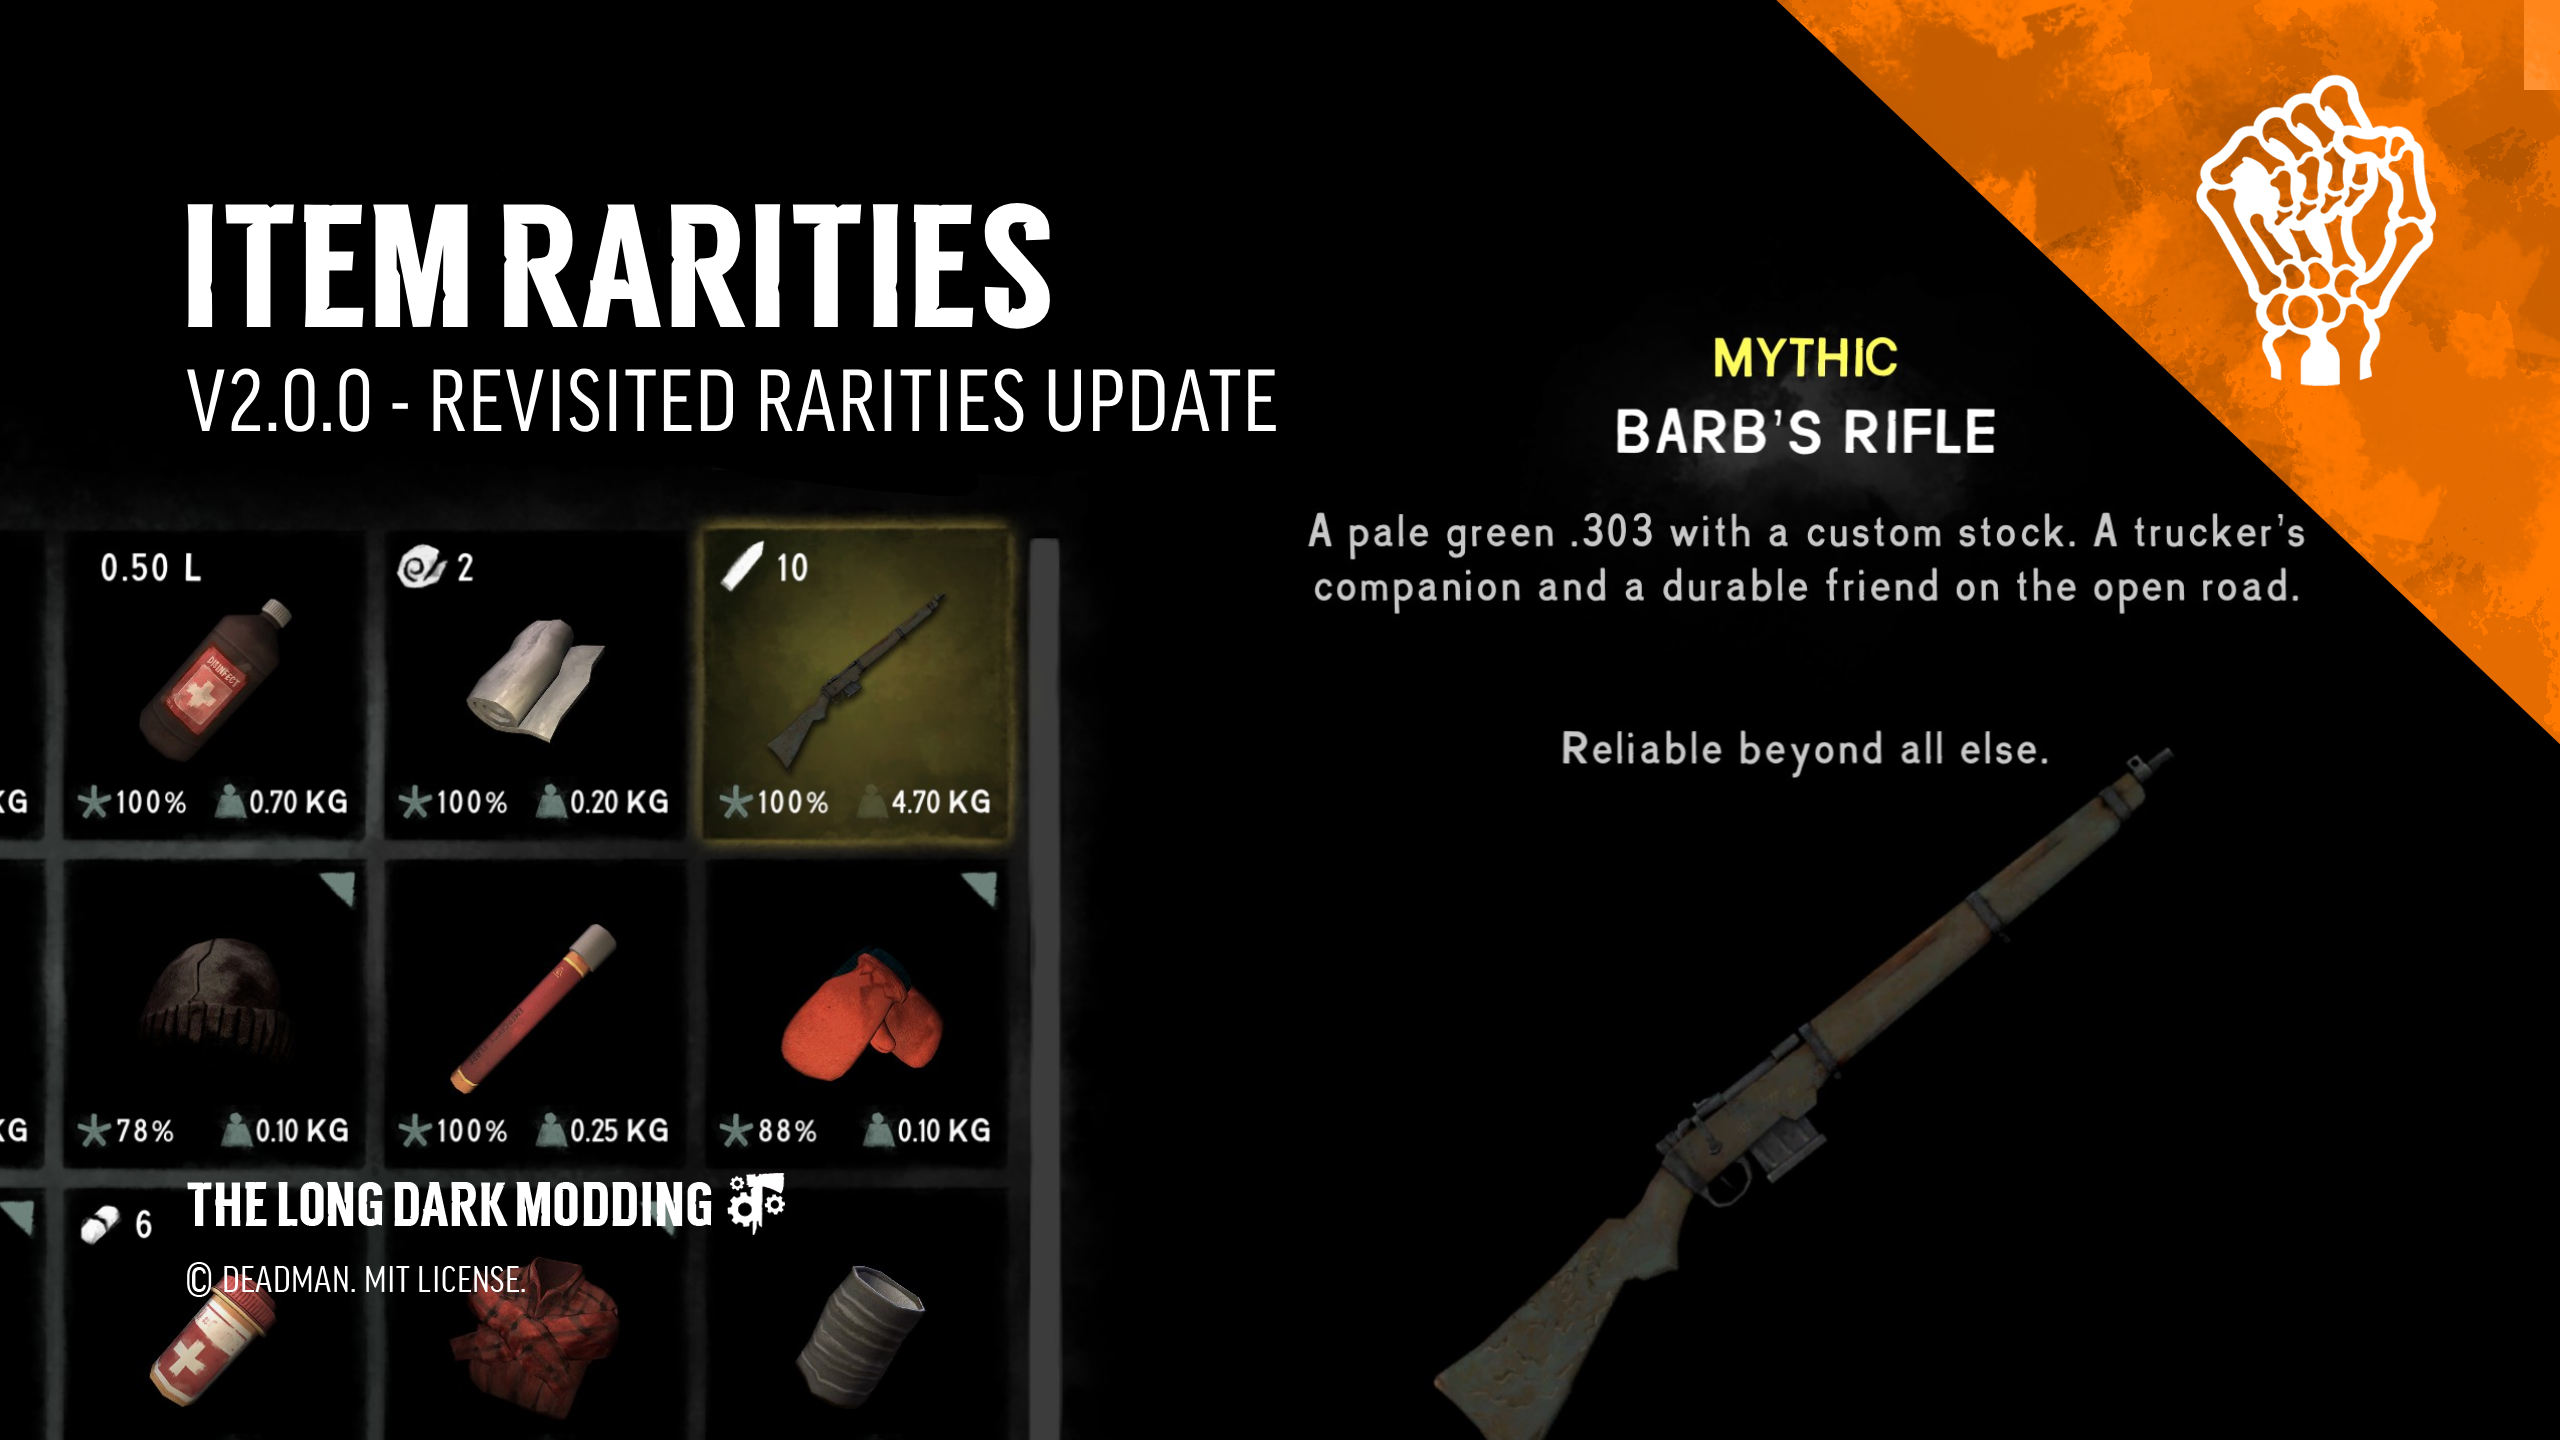
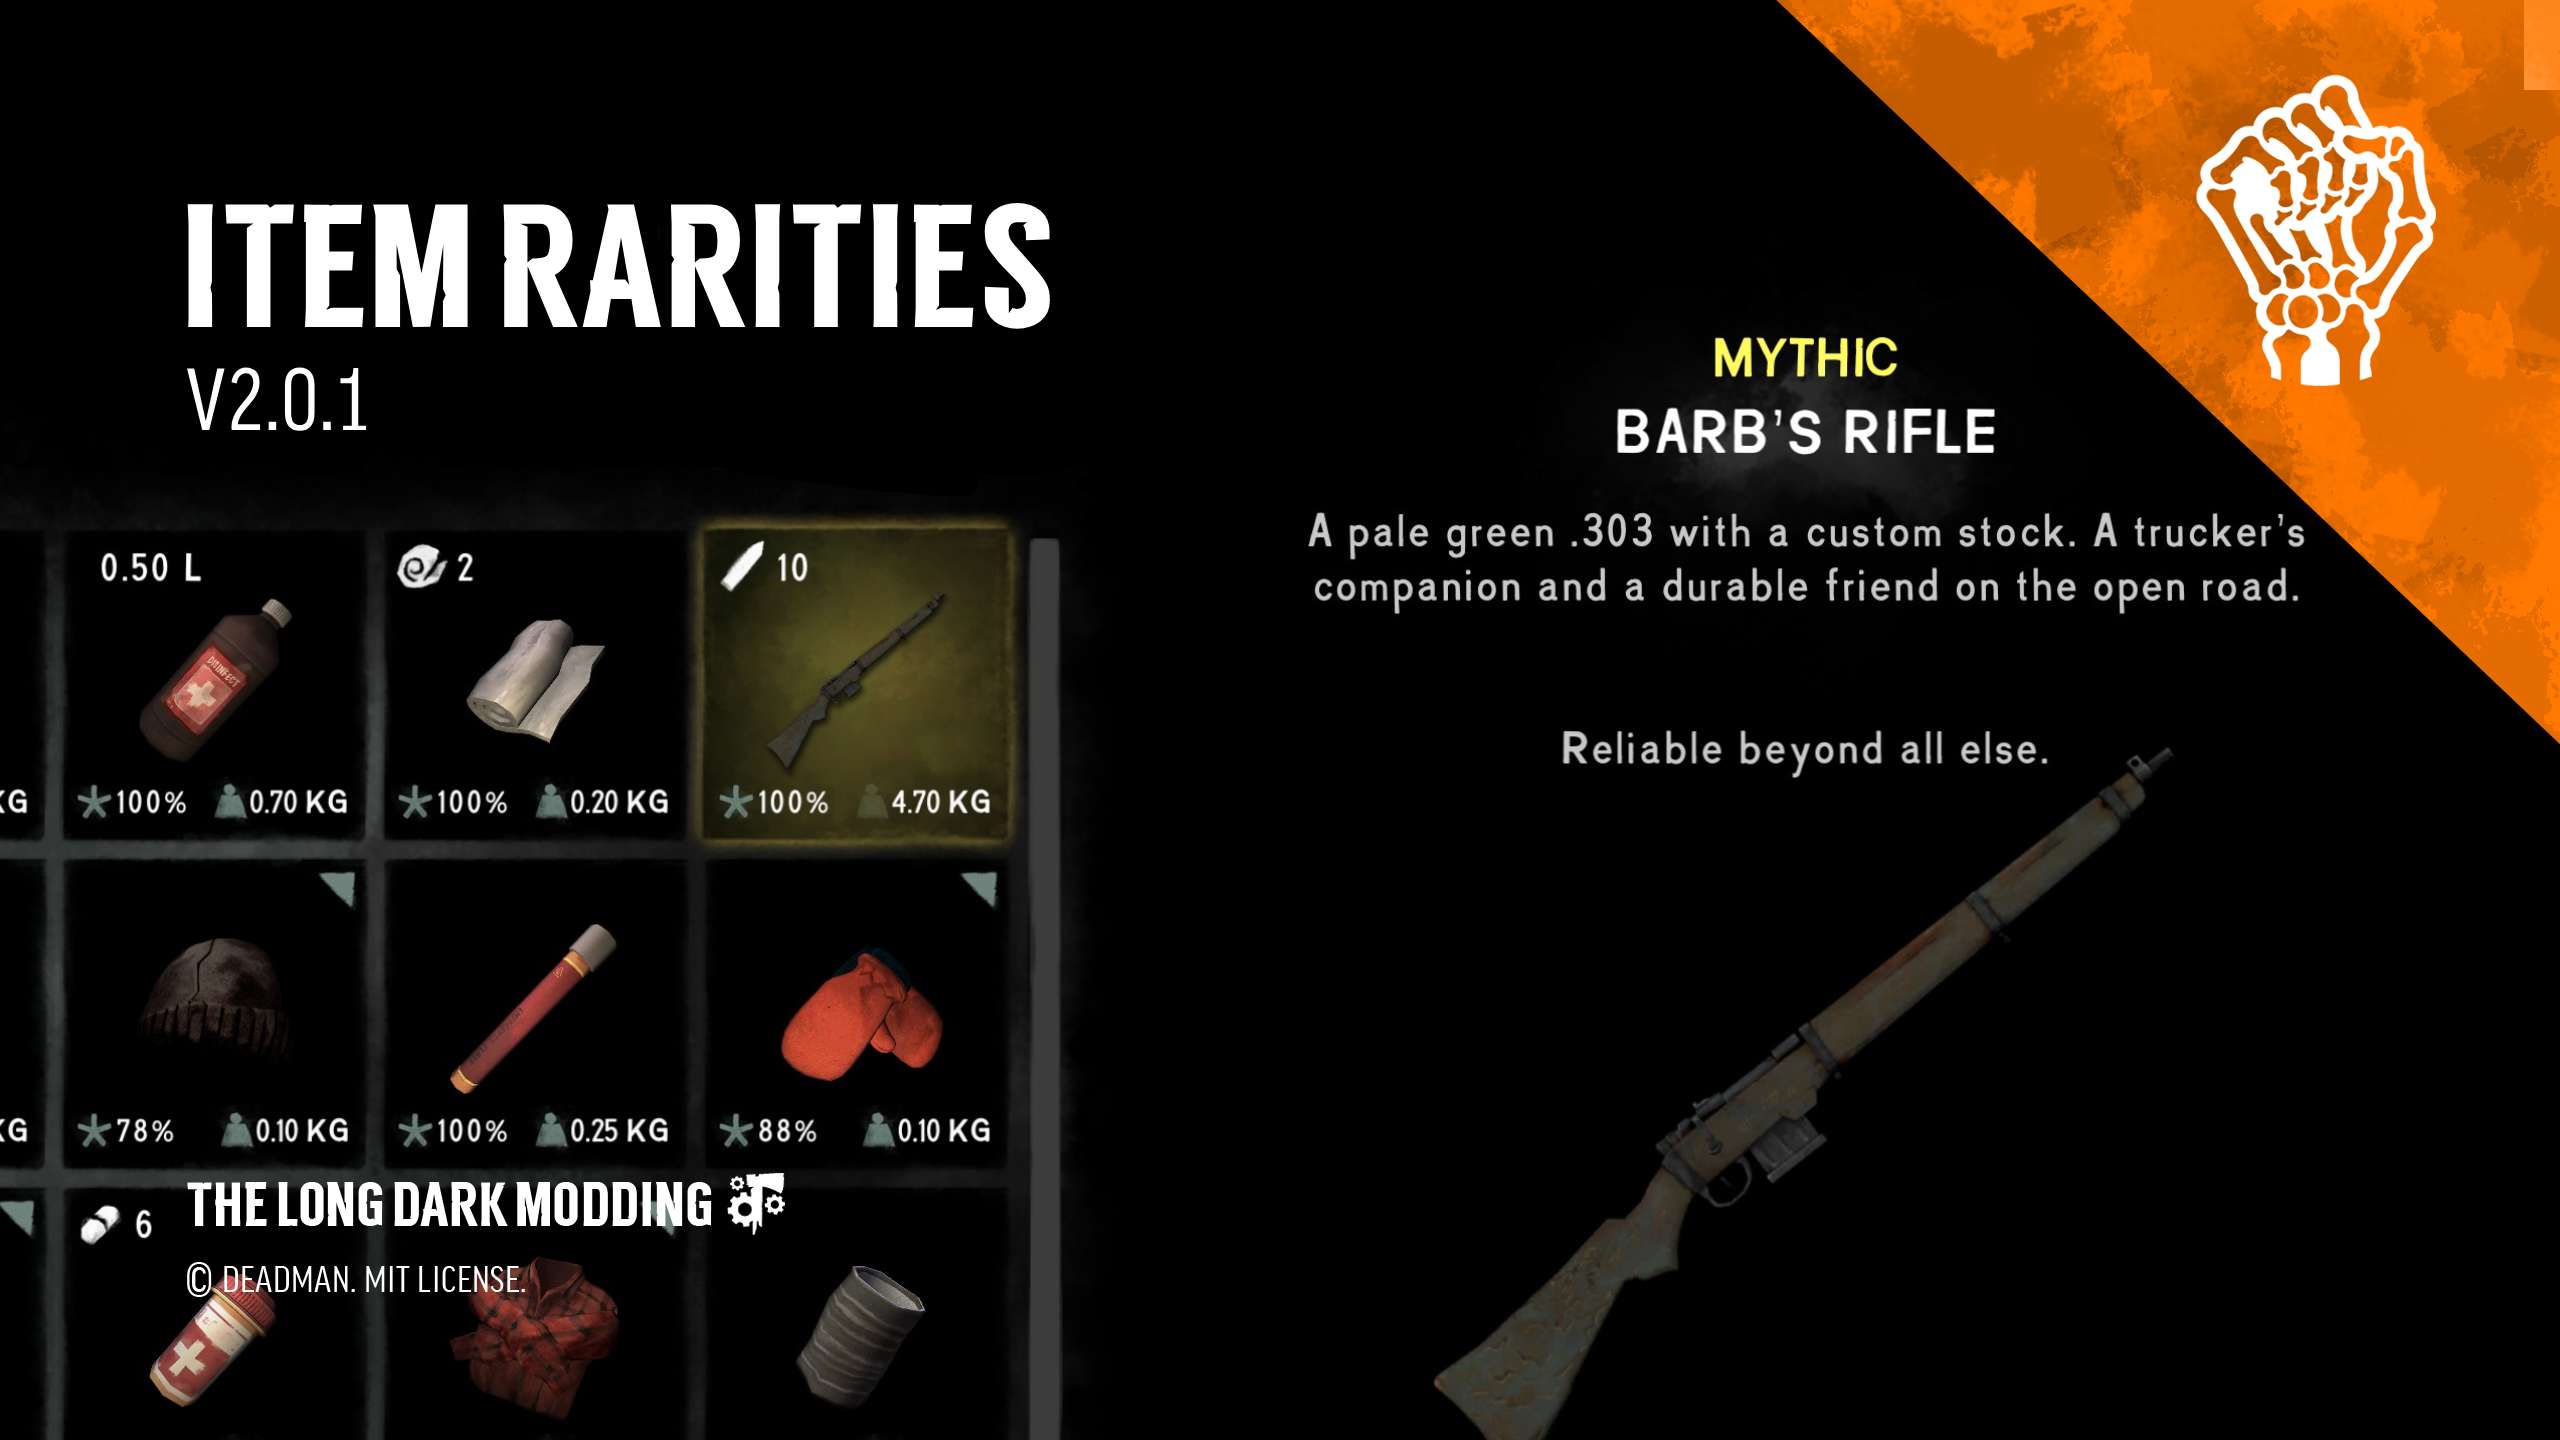
2.0.1 release

Changed region(s): [[0.125, 0.25, 0.5, 0.3125]]

diff --git a/Source/Properties/BuildInfo.cs b/Source/Properties/BuildInfo.cs
@@ -7,9 +7,8 @@ internal static class BuildInfo
     public const string Description = null!;
     public const string Author = "Deadman";
     public const string Copyright = "Copyright © 2023 - 2024";
-    public const string Version = "2.0.1-DeveloperBuild";
-    public const string AssemblyVersion = $"2.0.1.0";
-    //public const string AssemblyVersion = $"{Version}.0";
+    public const string Version = "2.0.1";
+    public const string AssemblyVersion = $"{Version}.0";
     public const string MelonLoaderVersion = "0.6.1";
     public const string GUIName = "Item Rarities";
     #endregion

diff --git a/README.md b/README.md
@@ -23,6 +23,8 @@ Item Rarities is a modification that gives each item within [**The Long Dark**](
 - **Exclusivity:** Exclusive items will now 'feel' rarer once obtained.
 
 #### HUD / UI Changes
+- **Sort By Rarity:** You can now sort by the rarity of items in your inventory or containers!
+- **Container Grid:** Whenever an item is selected or hovered over in the container grid, then the colour of that grid item changes.
 - **Inventory Grid:** Whenever an item is selected or hovered over, it's grid colour changes, and it displays a label above the item.
 - **Clothing Grid:** If a clothing item is selected or hovered over, the grid colour changes, and it displays a label above the item.
 - **Radial Menu:** The radial menu changes colour based on what item is hovered over, while displaying a label of what rarity it is.
